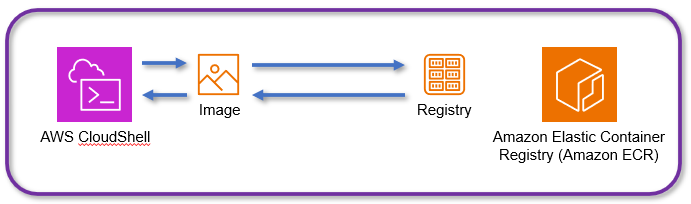
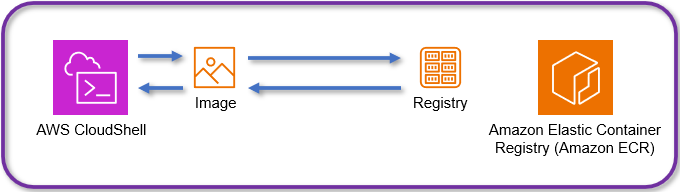
Carga de Lab 2

diff --git a/Capítulo2/lab2.md b/Capítulo2/lab2.md
@@ -7,10 +7,8 @@ Al finalizar la práctica, serás capaz de:
 
 
 ## Objetivo Visual 
-Crear un diagrama o imagen que resuma las actividades a realizar, un ejemplo es la siguiente imagen. 
 
-PENDIENTEEEEEEEE
-![diagrama1](../images/img1.png)
+![diagrama1](../images/m2/img0.png)
 
 ## Duración aproximada:
 - 40 minutos.
@@ -30,7 +28,7 @@ En esta tarea exploraras la cración de la funcion lambda y sus propiedades.
 
 **NOTA:** Si ya estas autenticado al laboratorio puedes avanzar al paso 4 y continuar desde ahi.
 
-Paso 1. Inicia sesión en la cuenta de AWS ![AWS] (https://us-east-2.signin.aws.amazon.com/oauth?client_id=arn%3Aaws%3Asignin%3A%3A%3Aconsole%2Fcanvas&code_challenge=O9XOfG1TAAeweXyB0WbmZbNsRtOhuxUkQSSJyXLAzcQ&code_challenge_method=SHA-256&response_type=code&redirect_uri=https%3A%2F%2Fconsole.aws.amazon.com%2Fconsole%2Fhome%3FhashArgs%3D%2523%26isauthcode%3Dtrue%26nc2%3Dh_ct%26src%3Dheader-signin%26state%3DhashArgsFromTB_us-east-2_039ecdfecdcea574)
+Paso 1. Inicia sesión en la cuenta de AWS ![AWS](https://us-east-2.signin.aws.amazon.com/oauth?client_id=arn%3Aaws%3Asignin%3A%3A%3Aconsole%2Fcanvas&code_challenge=O9XOfG1TAAeweXyB0WbmZbNsRtOhuxUkQSSJyXLAzcQ&code_challenge_method=SHA-256&response_type=code&redirect_uri=https%3A%2F%2Fconsole.aws.amazon.com%2Fconsole%2Fhome%3FhashArgs%3D%2523%26isauthcode%3Dtrue%26nc2%3Dh_ct%26src%3Dheader-signin%26state%3DhashArgsFromTB_us-east-2_039ecdfecdcea574)
 
 Paso 2. Dentro de la pagina usa las credenciales asignadas en el curso:
 
